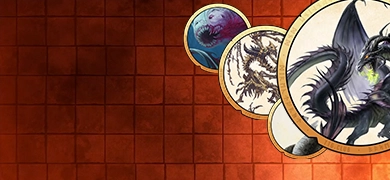
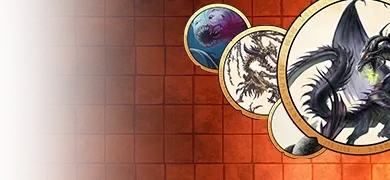
update img, main page

diff --git a/src/assets/styles/main.scss b/src/assets/styles/main.scss
@@ -120,7 +120,7 @@
     .card {
       flex: 1 1 15%;
       min-width: 15%;
-      background-color: var(--bg-secondary);
+      background-color: var(--bg-sub-menu);
       border-radius: 12px;
       display: grid;
       justify-content: start;
@@ -130,10 +130,12 @@
       overflow: hidden;
       height: 56px;
       align-items: center;
-      mask-image: radial-gradient(
-        white,
-        black
-      ); // Не удалять, это фикс для Safari, чтобы не вылазили углы картинки
+      box-shadow: 0 0.625rem 0.75rem 0 var(--card-shadow);
+      // mask-image: radial-gradient(
+      //   white,
+      //   black
+      // ); // Не удалять, это фикс для Safari, чтобы не вылазили углы картинки
+            // Вопрос решен кардинально! (оставим для истории)
 
       &::before {
         content: '';
@@ -142,39 +144,19 @@
         display: block;
         position: absolute;
         width: 220px;
-        height: 52px;
+        height: 56px;
         right: 0;
-        background-image: url(/img/bg_main_page_button_nav_3.png);
+        background-image: url(/img/bg_main_page_button_nav.webp);
         background-position: 0 0;
-
-        @media (max-width: 1200px) {
-          height: 48px;
-          background-image: url(/img/bg_main_page_button_nav_mobile_3.png);
-        }
+        opacity: 0.8;
       }
 
       @for $i from 1 through 11 {
         &:nth-child(#{$i + 1}) {
           &::before {
             background-position: 0 $i * -56px;
-
-            @media (max-width: 1200px) {
-              background-position: 0 $i * -48px;
-            }
           }
         }
-      }
-
-      &::after {
-        position: absolute;
-        pointer-events: none;
-        top: 0;
-        right: 0;
-        bottom: 0;
-        left: 0;
-        display: block;
-        background: var(--bg-liner-main-page);
-        content: '';
       }
 
       .title {
@@ -227,7 +209,7 @@
     .row {
       display: flex;
       flex-direction: row;
-      gap: 12px;
+      gap: 16px;
 
       @include media-max($lg) {
         flex-direction: column;
@@ -237,14 +219,16 @@
     .column {
       display: flex;
       flex-direction: column;
-      gap: 12px;
+      gap: 16px;
       flex: 1 0;
 
       &.youtube-block {
         flex: 0 0 calc(33% - 4px);
         height: fit-content;
-        border: 1px solid var(--border);
+        box-shadow: 0 0.625rem 0.75rem 0 var(--card-shadow);
+        padding: 1px;
         border-radius: 12px;
+        background: radial-gradient(circle at 100% 100%, var(--bg-secondary) 0, var(--bg-secondary) 11px, transparent 11px) 0% 0% / 12px 12px no-repeat, radial-gradient(circle at 0 100%, var(--bg-secondary) 0, var(--bg-secondary) 11px, transparent 11px) 100% 0% / 12px 12px no-repeat, radial-gradient(circle at 100% 0, var(--bg-secondary) 0, var(--bg-secondary) 11px, transparent 11px) 0% 100% / 12px 12px no-repeat, radial-gradient(circle at 0 0, var(--bg-secondary) 0, var(--bg-secondary) 11px, transparent 11px) 100% 100% / 12px 12px no-repeat, linear-gradient(var(--bg-secondary), var(--bg-secondary)) 50% 50% / calc(100% - 2px) calc(100% - 24px) no-repeat, linear-gradient(var(--bg-secondary), var(--bg-secondary)) 50% 50% / calc(100% - 24px) calc(100% - 2px) no-repeat, linear-gradient(135deg, var(--border_gradient) 0%, var(--border) 100%);
       }
     }
 
@@ -252,13 +236,16 @@
       display: flex;
       flex-direction: row;
       padding: 0 16px 0 16px;
-      background-color: var(--bg-table-list);
+      background-color: var(--bg-sub-menu);
+      // background-color: #000;
       border-radius: 12px;
       width: 100%;
       position: relative;
       overflow: hidden;
       min-height: 100px;
       height: 100%;
+      box-shadow: 0 0.625rem 0.75rem 0 var(--card-shadow);
+      
 
       .info {
         z-index: 1;
@@ -284,10 +271,11 @@
         background-size: cover;
         display: block;
         position: absolute;
-        width: 100%;
+        width: 101%;
         height: 100%;
         top: 0;
-        left: 0;
+        left: -1px;
+        opacity: 0.7;
         content: '';
       }
 
@@ -298,17 +286,17 @@
         }
       }
 
-      &:after {
-        position: absolute;
-        pointer-events: none;
-        top: 0;
-        right: 0;
-        bottom: 0;
-        left: 0;
-        display: block;
-        content: '';
-        background: var(--bg-liner-main-page);
-      }
+      // &:after {
+      //   position: absolute;
+      //   pointer-events: none;
+      //   top: 0;
+      //   right: 0;
+      //   bottom: 0;
+      //   left: 0;
+      //   display: block;
+      //   content: '';
+      //   background: var(--bg-liner-main-page);
+      // }
 
       @media (max-width: 1000px) {
         max-width: 100%;
@@ -336,10 +324,10 @@
 }
 
 .links_block {
-  background: var(--bg-secondary);
   padding: 16px;
   border-radius: 12px;
-  border: 1px solid var(--border);
+  box-shadow: 0 0.625rem 0.75rem 0 var(--card-shadow);
+  background: radial-gradient(circle at 100% 100%, var(--bg-secondary) 0, var(--bg-secondary) 11px, transparent 11px) 0% 0% / 12px 12px no-repeat, radial-gradient(circle at 0 100%, var(--bg-secondary) 0, var(--bg-secondary) 11px, transparent 11px) 100% 0% / 12px 12px no-repeat, radial-gradient(circle at 100% 0, var(--bg-secondary) 0, var(--bg-secondary) 11px, transparent 11px) 0% 100% / 12px 12px no-repeat, radial-gradient(circle at 0 0, var(--bg-secondary) 0, var(--bg-secondary) 11px, transparent 11px) 100% 100% / 12px 12px no-repeat, linear-gradient(var(--bg-secondary), var(--bg-secondary)) 50% 50% / calc(100% - 2px) calc(100% - 24px) no-repeat, linear-gradient(var(--bg-secondary), var(--bg-secondary)) 50% 50% / calc(100% - 24px) calc(100% - 2px) no-repeat, linear-gradient(135deg, var(--border_gradient) 0%, var(--border) 100%);
 
   h3 {
     font-size: calc(var(--h3-font-size) - 12px);

diff --git a/src/assets/styles/variables/colors.scss b/src/assets/styles/variables/colors.scss
@@ -52,6 +52,9 @@ $theme-dark: (
   'very_rare': #e770ff,
   'legendary': #f6ff00,
   'artifact': #ff8900,
+  'bg_gradient': linear-gradient(135deg, #23323bc7, #120e16c7),
+  'border_gradient': #1C386B,
+  'card-shadow': rgba(0,0,0,.05),
   // Scroll
   'background-color-thumb': rgba(255, 255, 255, 0.6),
   'background-color-thumb-hover': rgba(255, 255, 255, 0.8),
@@ -120,6 +123,9 @@ $theme-light: (
   'very_rare': #e770ff,
   'legendary': #d1d900,
   'artifact': #ff8900,
+  'bg_gradient': linear-gradient(135deg, #f7f2c5c7, #f7f1e5c7),
+  'border_gradient': #f8c6bb,
+  'card-shadow': rgba(0,0,0,.05),
   // Scroll
   'background-color-thumb': rgba(0, 0, 0, 0.6),
   'background-color-thumb-hover': rgba(0, 0, 0, 0.8),

diff --git a/src/features/menu/NavPopover.vue b/src/features/menu/NavPopover.vue
@@ -128,7 +128,8 @@
       pointer-events: auto;
       display: inline-block;
       cursor: auto;
-      background-color: var(--bg-secondary);
+      background-image: var(--bg_gradient);
+      backdrop-filter: blur(16px);
       overflow: auto;
       border-radius: 12px;
       border: 1px solid var(--border);

diff --git a/src/features/menu/NavMenu.vue b/src/features/menu/NavMenu.vue
@@ -328,7 +328,6 @@
         align-items: center;
 
         .nav-menu__group_label {
-          background: var(--bg-secondary);
           align-items: center;
 
           &::after {
